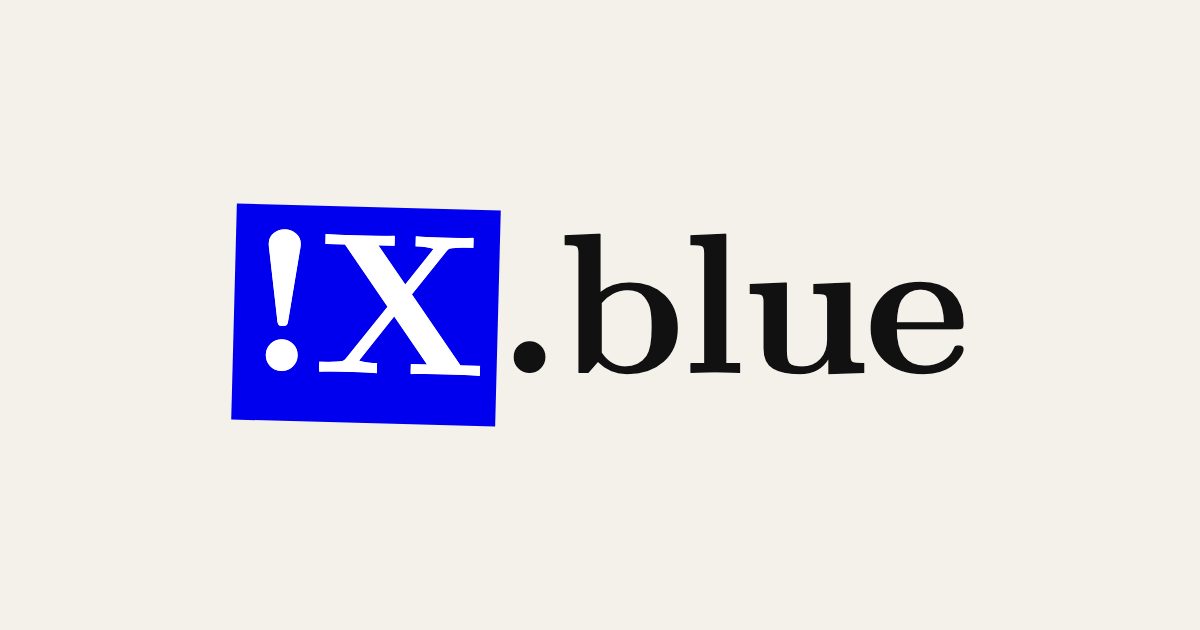
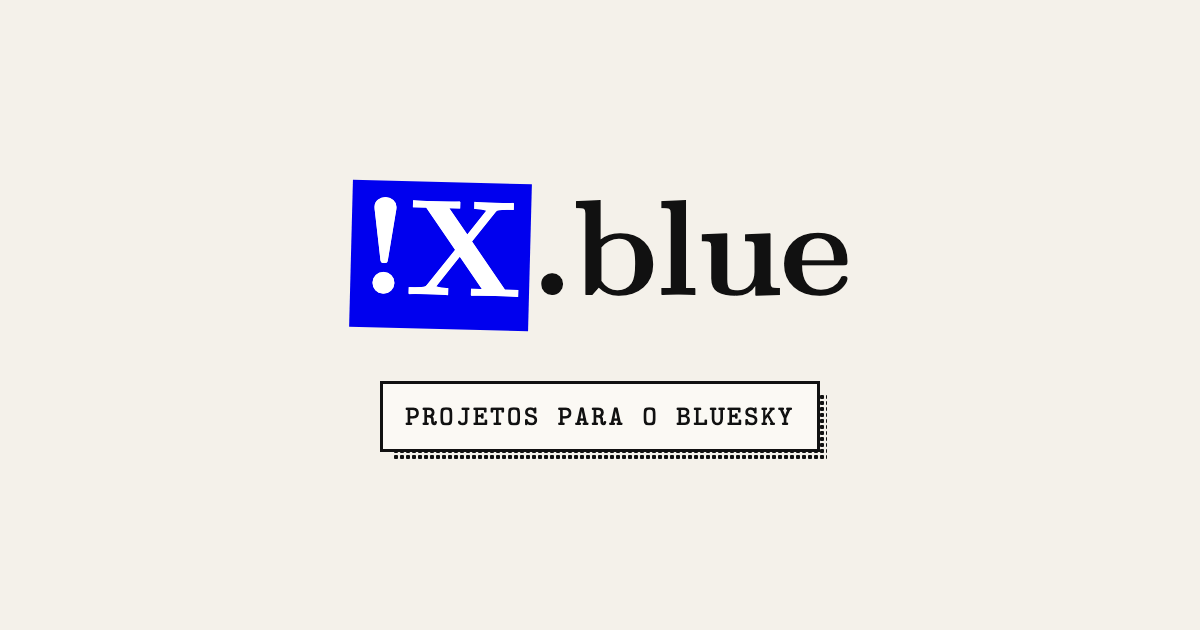
feat(site): match the apps' social card with a tagline

Changed region(s): [[0.185, 0.2714, 0.8017, 0.754]]

diff --git a/scripts/og.html b/scripts/og.html
@@ -1,16 +1,48 @@
 <!doctype html>
+<!-- Source for og.png and share.png. Render at 1200x630 with scripts/build-social.sh.
+     Same card as the apps (sumidos.notx.blue/scripts/og.html): the wordmark with the
+     name on the ink block tilted, and the tagline on a halftone shadow. -->
 <html lang="pt-BR">
 <head>
 <meta charset="utf-8">
 <title>notx.blue social preview</title>
 <link rel="stylesheet" href="../assets/tailwind-4.3.3.css">
+<link rel="stylesheet" href="../assets/site-v2.css">
 <style>
-* { box-sizing: border-box; }
-body { width: 1200px; height: 630px; margin: 0; display: grid; place-items: center; background: var(--surface-page); color: var(--text-1); }
-h1 { font: 700 200px/1 var(--font-display); margin: 0; letter-spacing: -0.02em; }
-span { display: inline-block; background: var(--ink-blue); color: var(--on-blue); padding: 0.06em 0.07em 0.1em; line-height: 0.92; transform: rotate(1.5deg); }
+  html, body { margin: 0; width: 1200px; height: 630px; overflow: hidden; background: var(--surface-page); }
+  .frame {
+    box-sizing: border-box; width: 1200px; height: 630px; padding: 56px;
+    display: flex; flex-direction: column; justify-content: center; align-items: center; gap: 52px;
+    isolation: isolate;
+  }
+  .wordmark {
+    margin: 0;
+    font: 700 136px/1.1 var(--font-display);
+    letter-spacing: -0.02em;
+    color: var(--text-1);
+    white-space: nowrap;
+  }
+  .ink-block {
+    display: inline-block; background: var(--ink-blue); color: var(--on-blue);
+    padding: 0.06em 0.07em 0.1em; line-height: 0.92; transform: rotate(1.5deg);
+  }
+  .tagline {
+    position: relative; margin: 0; padding: 14px 22px;
+    background: var(--surface-card); border: 3px solid var(--border-strong);
+    font: 700 28px/1.3 var(--font-mono);
+    letter-spacing: 0.08em; text-transform: uppercase; color: var(--text-1);
+  }
+  .tagline::after {
+    content: ""; position: absolute; z-index: -1; inset: 0; transform: translate(10px, 10px);
+    background: radial-gradient(circle at 50% 50%, var(--text-1) 2px, transparent 2.5px) 0 0 / 6px 6px;
+  }
 </style>
 </head>
-<body><h1><span>!X</span>.blue</h1>
-<script>document.fonts.load('700 200px "CMU Serif"').then(() => document.fonts.ready)</script></body>
+<body>
+  <div class="frame">
+    <h1 class="wordmark"><span class="ink-block">!X</span>.blue</h1>
+    <p class="tagline">Projetos para o Bluesky</p>
+  </div>
+  <script>document.fonts.load('700 136px "CMU Serif"').then(() => document.fonts.ready)</script>
+</body>
 </html>
